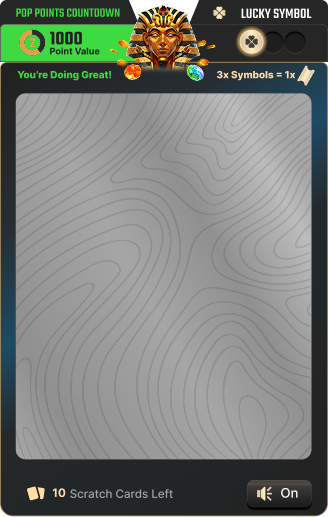
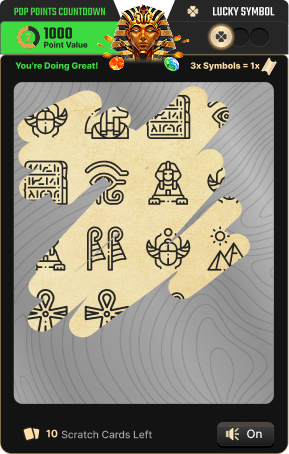
Assets for How to Play replaced

diff --git a/src/screens/learn/HowToPlayScreen.jsx b/src/screens/learn/HowToPlayScreen.jsx
@@ -14,18 +14,29 @@ const HowToPlayScreen = () => {
   };
   const carouselItems = [
     {
-      description:
-        "Write some text about this stage in the game for users to follow",
+      title: "Reveal card",
+      description: "Scratch the surface to reveal the full card underneath.",
       image: AssetPack.images.CAROUSEL_ITEM_1,
     },
     {
-      description: "Scratch off the symbols to begin your game.",
+      title: "Lvl 1 combos",
+      description: "Match 3 of the same symbol to earn 1 scratch ticket.",
       image: AssetPack.images.CAROUSEL_ITEM_2,
     },
     {
-      description:
-        "Write some text about this stage in the game for users to follow",
+      title: "Lvl 2 combos",
+      description: "Match 3 of the same symbol to earn 1 scratch ticket.",
       image: AssetPack.images.CAROUSEL_ITEM_3,
+    },
+    {
+      title: "Lvl 3 combos",
+      description: "Write some text about this stage in the game for users to follow",
+      image: AssetPack.images.CAROUSEL_ITEM_4,
+    },
+    {
+      title: "Lvl 4 combos",
+      description: "Write some text about this stage in the game for users to follow",
+      image: AssetPack.images.CAROUSEL_ITEM_5,
     },
   ];
   return (

diff --git a/src/util/AssetsPack.js b/src/util/AssetsPack.js
@@ -54,6 +54,8 @@ const AssetPack = {
     CAROUSEL_ITEM_1: require("../assets/image/carousel/carousel_item_1.png"),
     CAROUSEL_ITEM_2: require("../assets/image/carousel/carousel_item_2.png"),
     CAROUSEL_ITEM_3: require("../assets/image/carousel/carousel_item_3.png"),
+    CAROUSEL_ITEM_4: require("../assets/image/carousel/carousel_item_3.png"),
+    CAROUSEL_ITEM_5: require("../assets/image/carousel/carousel_item_3.png"),
     EXTENDING_PLAY: require("./../assets/image/extending_play_image.png"),
     AMAZON_GOLD_GIFT_CARD: require("./../assets/image/amazon_gift_card_golden.png"),
     TURBO_GAME_CARDS_SHOW: require("./../assets/image/turbo_game_cards_show.png"),
